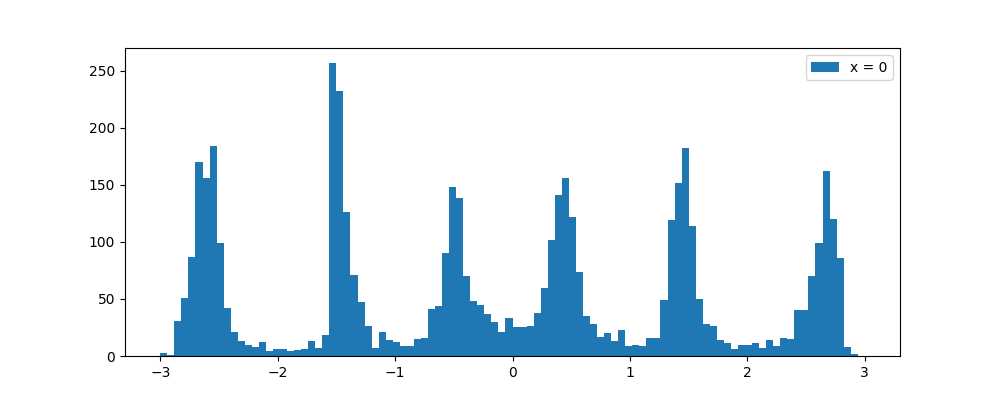
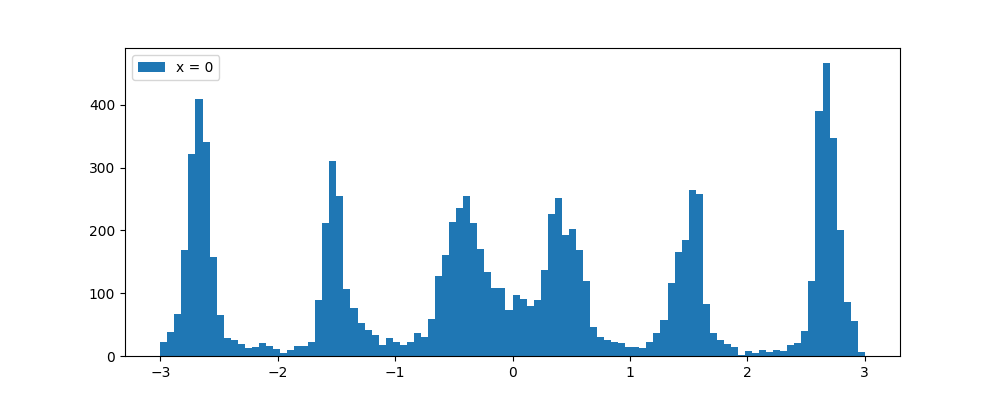
generic commit

diff --git a/scripts/transport/k_diffusion.py b/scripts/transport/k_diffusion.py
@@ -852,10 +852,10 @@ def run():
               #slice_vals=[], plt_range=[[-4.1,4.1],[-4.1,4.1]], slice_range=[-1.5, 1.5], vmax=.12, skip_idx=1,
               #N_plot=10000, plot_steps = True, normal = True, bins=100, var_eps = .1)
 
-    target_gen = sample_spirals
-    two_d_exp(ref_gen=sample_normal, target_gen = target_gen, N = 10000, exp_name='exp', n_transports=60,
-    slice_vals=[0], plt_range= [[-3,3],[-3,3]], slice_range=[-3, 3], vmax=.32, skip_idx=1,
-    N_plot= 10000, plot_steps = False, normal = True, bins=100, var_eps = 1/3)
+    target_gen = mgan2
+    two_d_exp(ref_gen=sample_normal, target_gen = target_gen, N = 5000, exp_name='exp', n_transports=60,
+    slice_vals=[-1,0,1], plt_range= [[-2.5,2.5],[-1.05,1.05]], slice_range=[-1.5, 1.5], vmax=.32, skip_idx=1,
+    N_plot= 5000, plot_steps = False, normal = True, bins=100, var_eps = .5)
 
 #Test mmd :0.0021, Base mmd: 0.0105, NTest mmd :0.2039
 if __name__ == '__main__':
